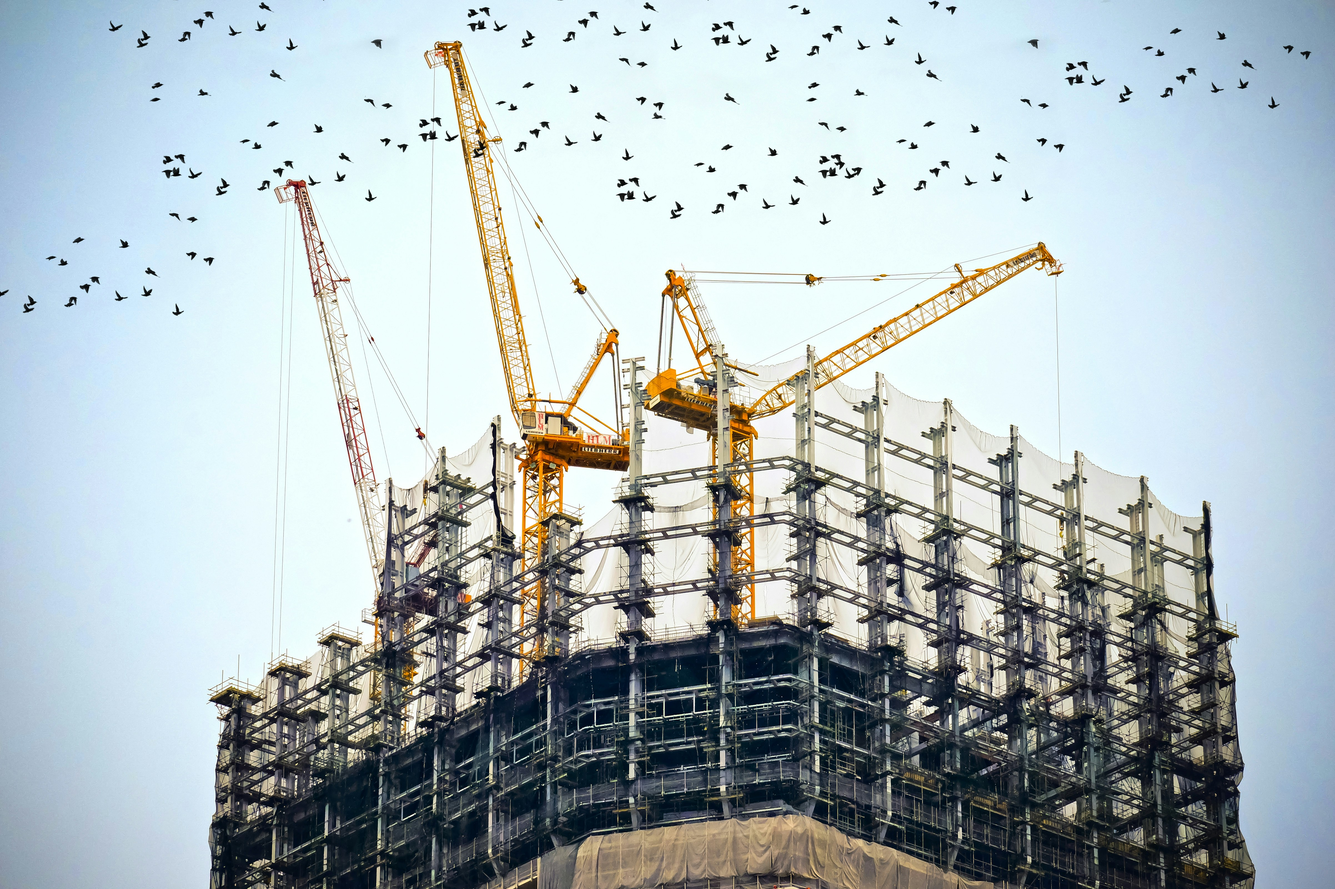
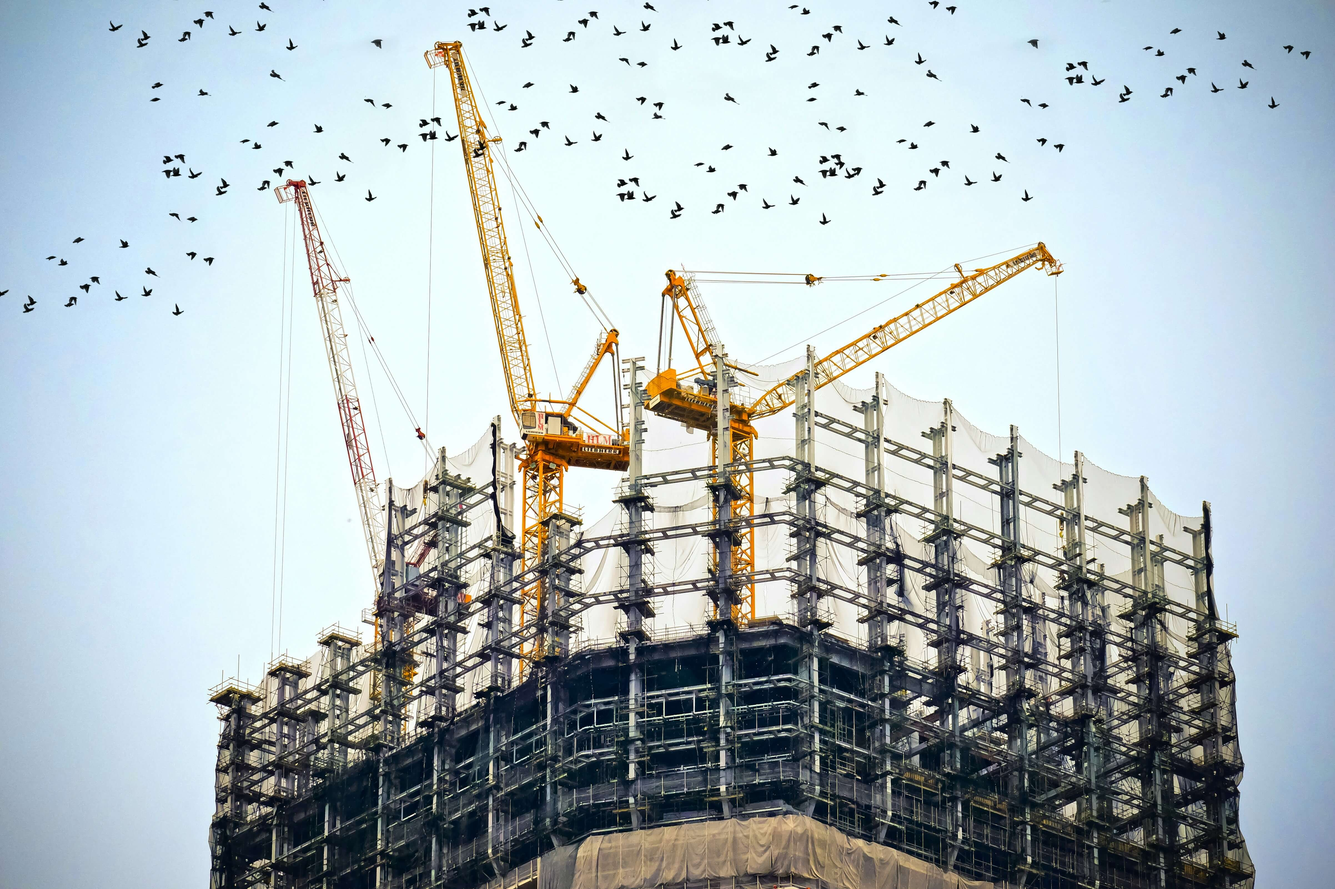
optimized about us and contact page, compressed hero section images'

diff --git a/app/about/page.jsx b/app/about/page.jsx
@@ -189,8 +189,7 @@ const About = () => {
         </motion.div>
       </section>
 
-      {/* another sections */}
-
+      {/* Section 4: Construction & Development */}
       <section
         className="min-h-[50vh] px-4 sm:px-6 md:px-16 py-20 bg-white"
         ref={(el) => (sectionRefs.current.section5 = el)}
@@ -220,7 +219,7 @@ const About = () => {
           </motion.h2>
           <div className="flex flex-col md:flex-row justify-between items-start space-y-8 md:space-y-0 md:space-x-12">
             <motion.div
-              className="md:w-1/3 pr-4 galaxy-fold:w-full"
+              className="md:w-1/2 pr-4 galaxy-fold:w-full"
               variants={{
                 hidden: { opacity: 0, y: 50 },
                 visible: { opacity: 1, y: 0 },
@@ -230,19 +229,11 @@ const About = () => {
               <p className="text-base sm:text-lg md:text-xl text-left leading-relaxed tracking-normal">
                 The main field of business of Mardi Holding is construction and
                 development. The facilities under construction are located in
-                Batumi, Tbilisi and Bakuriani. Mardi offers customers both
-                residential and apart-hotel services in both under construction
+                Batumi, Tbilisi, and Bakuriani. Mardi offers customers both
+                residential and apart-hotel services in both under-construction
                 and completed hospitality complexes.
               </p>
             </motion.div>
-            <motion.div
-              className="md:w-1/2"
-              variants={{
-                hidden: { opacity: 0, y: 50 },
-                visible: { opacity: 1, y: 0 },
-              }}
-              transition={{ duration: 1, ease: "easeOut" }}
-            ></motion.div>
           </div>
         </motion.div>
       </section>
@@ -306,9 +297,9 @@ const About = () => {
               <div className="absolute inset-0 bg-gradient-to-t from-black via-black/70 to-transparent opacity-90"></div>
 
               <p className="relative z-10 galaxy-fold:w-full text-base sm:text-lg md:text-xl w-full sm:w-2/3 text-left leading-relaxed tracking-normal">
-                outstanding brand of the company is "Adjara Wine House", a
+                The outstanding brand of the company is "Adjara Wine House", a
                 chateau-type restaurant, which includes a winery, enotheque,
-                ethnographic museum, cellar and a restaurant. Here, in the
+                ethnographic museum, cellar, and a restaurant. Here, in the
                 beautiful nature, by the river, you will get acquainted with the
                 ancient Georgian traditions, taste the most delicious wine and
                 Georgian dishes; You will learn the technologies of grape
@@ -320,6 +311,8 @@ const About = () => {
           </div>
         </motion.div>
       </section>
+
+      
 
       {/* Final Section without background image */}
       <section
@@ -340,7 +333,7 @@ const About = () => {
           }}
         >
           <motion.h2
-            className="text-3xl sm:text-4xl md:text-5xl font-semibold text-right mb-5 lg:mb-10"
+            className="text-3xl sm:text-4xl md:text-5xl font-semibold text-left mb-5 lg:mb-10"
             variants={{
               hidden: { opacity: 0, x: -50 },
               visible: { opacity: 1, x: 0 },
@@ -349,24 +342,16 @@ const About = () => {
           >
             Company Vision and Goals
           </motion.h2>
-          <div className="flex flex-col md:flex-row justify-between items-start space-y-8 md:space-y-0 md:space-x-12">
+          <div className="flex flex-col md:flex-row justify-start items-start space-y-8 md:space-y-0 md:space-x-12">
             <motion.div
-              className="md:w-1/3 pr-4"
-              variants={{
-                hidden: { opacity: 0, y: 50 },
-                visible: { opacity: 1, y: 0 },
-              }}
-              transition={{ duration: 1, ease: "easeOut" }}
-            ></motion.div>
-            <motion.div
-              className="md:w-1/2 pl-4 galaxy-fold:w-full"
+              className="md:w-1/2 pr-4"
               variants={{
                 hidden: { opacity: 0, y: 50 },
                 visible: { opacity: 1, y: 0 },
               }}
               transition={{ duration: 1, ease: "easeOut" }}
             >
-              <p className="text-base galaxy-fold:w-full sm:text-lg md:text-xl text-right leading-relaxed tracking-normal">
+              <p className="text-base galaxy-fold:w-full sm:text-lg md:text-xl text-left leading-relaxed tracking-normal">
                 Mardi Holding is led by a young, creative and professional team,
                 which aims to offer customers a big variety of quality products;
                 Our starting point is the protection of the environment and the

diff --git a/app/contact/page.jsx b/app/contact/page.jsx
@@ -3,40 +3,53 @@
 import React from 'react';
 import Link from 'next/link';
 import { motion } from 'framer-motion';
+import Image from 'next/image'; // For logo optimization
 
 const Contact = () => {
   return (
     <div className="contact-page">
+      {/* Preload Hero Image */}
+      <link
+        rel="preload"
+        as="image"
+        href="/images/contact.jpeg" // Preloading contact.jpeg
+        type="image/jpeg"
+        importance="high"
+      />
+
       {/* Hero Section */}
       <section
         className="relative min-h-[40vh] md:min-h-[60vh] bg-fixed bg-cover bg-center pt-20 flex flex-col justify-center"
         style={{
-          backgroundImage: "url('/images/contact.jpeg')",
+          backgroundImage: "url('/images/contact.jpeg')", // Keep contact.jpeg
           backgroundSize: "cover",
           backgroundPosition: "center center",
         }}
       >
         {/* Header */}
-        <header className="absolute top-0 left-0 w-full flex items-center justify-between px-6 md:px-16 py-4 md:py-6 shadow-md z-30 font-medium text-white">
+        <header className="absolute top-0 left-0 w-full flex items-center justify-between px-4 sm:px-6 md:px-16 py-4 sm:py-5 md:py-6 shadow-md z-30 font-medium text-white">
           <Link href="/">
-            <img src="/images/logo.svg" alt="Logo" className="h-6 md:h-8" />
+            <img
+              src="/images/logo.svg"
+              alt="Logo"
+              className="h-6 sm:h-7 md:h-8"
+            />
           </Link>
-          <nav className="flex space-x-6 md:space-x-10">
+          <nav className="flex space-x-4 sm:space-x-6 md:space-x-10">
             <Link
               href="/contact"
-              className="relative transition-colors duration-200 font-bold text-xs md:text-sm after:content-[''] after:absolute after:left-0 after:bottom-[-3px] after:h-[2px] after:w-0 after:bg-current after:transition-all after:duration-300 hover:after:w-full"
+              className="relative transition-colors duration-200 font-bold text-xs sm:text-sm md:text-base after:content-[''] after:absolute after:left-0 after:bottom-[-3px] after:h-[2px] after:w-0 after:bg-current after:transition-all after:duration-300 hover:after:w-full"
             >
               Contact
             </Link>
             <Link
               href="/about"
-              className="relative transition-colors duration-200 font-bold text-xs md:text-sm after:content-[''] after:absolute after:left-0 after:bottom-[-3px] after:h-[2px] after:w-0 after:bg-current after:transition-all after:duration-300 hover:after:w-full"
+              className={`relative transition-colors duration-200 font-bold text-xs sm:text-sm md:text-base after:content-[''] after:absolute after:left-0 after:bottom-[-3px] after:h-[2px] after:bg-current after:transition-all after:duration-300 hover:after:w-full`}
             >
               About Us
             </Link>
           </nav>
         </header>
-
         {/* Updated Overlay Gradient */}
         <div className="absolute inset-0 bg-gradient-to-b from-black/90 to-transparent opacity-90"></div>
 

diff --git a/app/page.jsx b/app/page.jsx
@@ -23,7 +23,7 @@ export default function Home() {
       hls: "https://customer-s2m96v0a16zk0okb.cloudflarestream.com/0277dfb0898223f82c258c0a2d881bce/manifest/video.m3u8",
     },
     {
-      hls: "https://customer-s2m96v0a16zk0okb.cloudflarestream.com/c5754dddf6541ec9ddbd434c356616d4/manifest/video.m3u8",
+      hls: "https://customer-s2m96v0a16zk0okb.cloudflarestream.com/4eba15fa3952112976869172831b4c3f/manifest/video.m3u8",
     },
     {
       hls: "https://customer-s2m96v0a16zk0okb.cloudflarestream.com/3a53346ff334a41d95699aaced9184bd/manifest/video.m3u8",
@@ -134,26 +134,29 @@ export default function Home() {
   return (
     <main className="relative w-full min-h-screen h-screen overflow-hidden font-primary">
       {/* Header */}
-      <header className="absolute top-0 left-0 w-full flex items-center justify-between px-[5vw] py-[2vh] shadow-md z-30 font-medium text-white">
-        <Link href="/">
-          <img src="/images/logo.svg" alt="Logo" className="h-[3vh]" />
-        </Link>
-        <nav className="flex space-x-[2vw]">
-          <Link
-            href="/contact"
-            className="relative transition-colors duration-200 font-bold text-xs sm:text-sm"
-          >
-            Contact
+      <header className="absolute top-0 left-0 w-full flex items-center justify-between px-4 sm:px-6 md:px-16 py-4 sm:py-5 md:py-6 shadow-md z-30 font-medium text-white">
+          <Link href="/">
+            <img
+              src="/images/logo.svg"
+              alt="Logo"
+              className="h-6 sm:h-7 md:h-8"
+            />
           </Link>
-          <Link
-            href="/about"
-            className="relative transition-colors duration-200 font-bold text-xs sm:text-sm"
-          >
-            About Us
-          </Link>
-        </nav>
-      </header>
-
+          <nav className="flex space-x-4 sm:space-x-6 md:space-x-10">
+            <Link
+              href="/contact"
+              className="relative transition-colors duration-200 font-bold text-xs sm:text-sm md:text-base after:content-[''] after:absolute after:left-0 after:bottom-[-3px] after:h-[2px] after:w-0 after:bg-current after:transition-all after:duration-300 hover:after:w-full"
+            >
+              Contact
+            </Link>
+            <Link
+              href="/about"
+              className={`relative transition-colors duration-200 font-bold text-xs sm:text-sm md:text-base after:content-[''] after:absolute after:left-0 after:bottom-[-3px] after:h-[2px] after:bg-current after:transition-all after:duration-300 hover:after:w-full`}
+            >
+              About Us
+            </Link>
+          </nav>
+        </header>
       <div className="main-content absolute inset-0">
         <div className="relative w-full h-full min-h-[100vh] flex flex-col justify-center items-center">
           <AnimatePresence initial={false}>

diff --git a/app/components/LazySection5.jsx b/app/components/LazySection5.jsx
@@ -1,0 +1,46 @@
+import { motion } from 'framer-motion';
+
+const LazySection5 = ({ visible, sectionId, title, content }) => {
+  return (
+    <section
+      className="min-h-[50vh] px-4 sm:px-6 md:px-16 py-20 bg-white"
+      data-section={sectionId}
+    >
+      <motion.div
+        className="flex flex-col lg:mt-[10vh] mt-0 mx-auto max-w-10/12"
+        initial="hidden"
+        animate={visible ? "visible" : "hidden"}
+        variants={{
+          visible: {
+            transition: {
+              staggerChildren: 0.5,
+            },
+          },
+        }}
+      >
+        <motion.h2
+          className="text-3xl sm:text-4xl md:text-5xl font-semibold text-left mb-10 lg:mb-20"
+          variants={{
+            hidden: { opacity: 0, x: -50 },
+            visible: { opacity: 1, x: 0 },
+          }}
+          transition={{ duration: 1, ease: "easeOut" }}
+        >
+          {title}
+        </motion.h2>
+        <motion.p
+          className="text-base sm:text-lg md:text-xl text-left leading-relaxed tracking-normal"
+          variants={{
+            hidden: { opacity: 0, y: 50 },
+            visible: { opacity: 1, y: 0 },
+          }}
+          transition={{ duration: 1, ease: "easeOut" }}
+        >
+          {content}
+        </motion.p>
+      </motion.div>
+    </section>
+  );
+};
+
+export default LazySection5;
